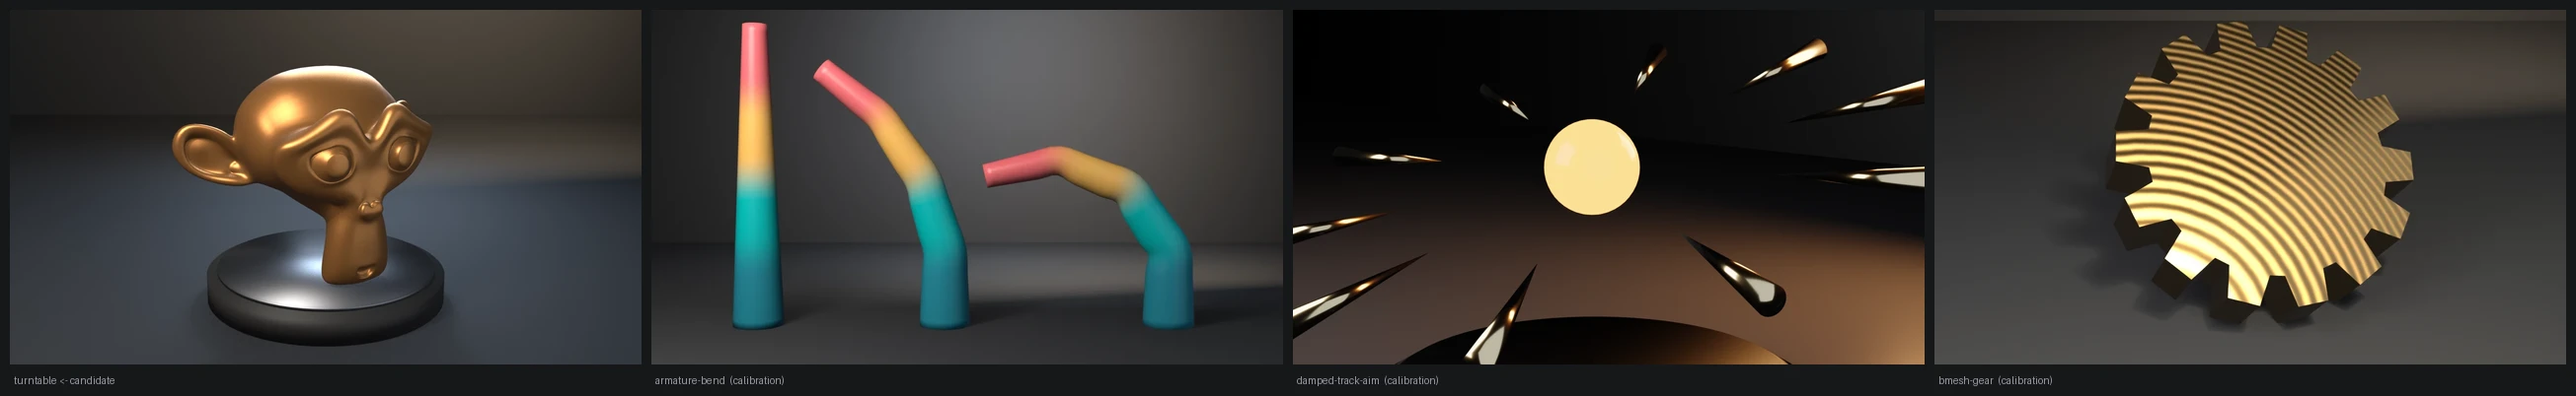
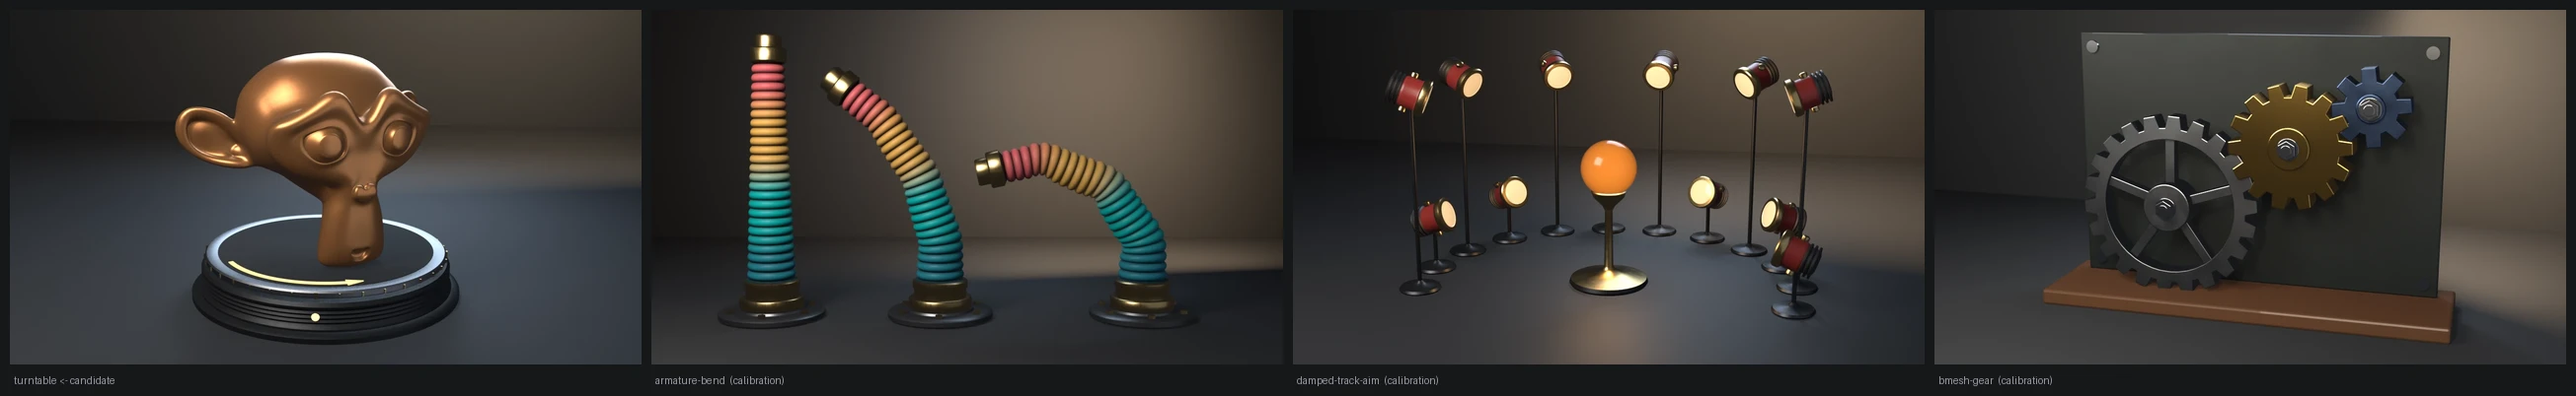
fix(examples): redesign turntable as a lathed display turntable with a frame-tick dial
The copper Suzanne sat on a plain two-disc plinth. The render-only staging is
now a display turntable: a stepped, vented motor housing with a front status
lamp, a steel platter with an inset rubber mat, one brass tick per keyed
frame on the platter rim (FRAMES ticks, 10 degrees apart, a longer one every
90) so the keyed 0..360 span reads as a dial, and an amber arc arrow on the
mat showing the direction of the keyed +Z turn. The steel is rougher than
the old platter, which blew out to white under the key. The render path now
runs the gallery_framing gate (exit 10, added to the README table). The
rotation keys, the sampled frames and the check are unchanged.

Evidence (live runs, local):
- .scratch/blender-5.2.1-windows-x64/blender.exe (Blender 5.2.1 LTS):
  check-only exit 0, branch=5.0+ ensure-helper rot_z 0.0 / 3.0518 / 6.2832
  drives=True. --no-keys exits 3 ("rotation keys do not drive playback").
- .scratch/blender-4.5.11-windows-x64/blender.exe (Blender 4.5.11 LTS):
  --output exits 0, branch=4.4/4.5 strip.channelbag with the same rot_z
  samples, framing_ok.
- Framing: fill y=0.822; margins l=0.263 r=0.287 b=0.056 t=0.122.
- Contact sheet: candidate luma 0.245 / stage 0.208 / warmth -0.029 /
  sat 0.208, against armature-bend 0.243/0.192/-0.144/0.237,
  damped-track-aim 0.237/0.218/+0.105/0.178 and bmesh-gear
  0.237/0.252/+0.092/0.153. Warmth is slightly negative from the cool floor
  under the housing; the warm wedge reads on the wall.

diff --git a/examples/turntable/turntable.py b/examples/turntable/turntable.py
@@ -20,6 +20,12 @@ era check is untouched.
     blender --background --python turntable.py -- --output t.png --engine cycles  # GPU-less
 """
 import bpy, sys, os, math, argparse
+from mathutils import Vector
+
+# Shared Layer 1 framing measurement (render path only) — see
+# gallery_framing.py for the __file__-relative import shim this relies on.
+sys.path.insert(0, os.path.join(os.path.dirname(os.path.abspath(__file__)), os.pardir))
+import gallery_framing  # noqa: E402
 
 FRAMES = 36
 
@@ -72,21 +78,92 @@ def correctness(obj):
     print(f"branch={branch} rot_z f1={r1} fmid={rmid} fend={rend} drives={drives}")
     return drives
 
-PLINTH_R = 1.15
-PLINTH_H = 0.28
-PLATTER_R = 1.05
-PLATTER_H = 0.05
+# Render-only display turntable, sized around the head (Suzanne spans ~2.7 x 1.7).
+BASE_R = 1.32          # motor housing radius at its widest
+BASE_H = 0.34          # housing top (platter bearing seat)
+PLATTER_R = 1.18
+PLATTER_Z0 = BASE_H + 0.02
+PLATTER_H = 0.07
+MAT_R = 1.06           # rubber mat inset into the platter
 SEAT = 0.01
+TICK_STEP_DEG = 360.0 / FRAMES   # one rim tick per keyed frame: the key span, made visible
+
+
+def _lathe(bm, profile, segs=96):
+    """Revolve an (r, z) profile about Z; r == 0 points become poles."""
+    rings = []
+    for r, z in profile:
+        if r < 1e-9:
+            rings.append([bm.verts.new((0.0, 0.0, z))])
+        else:
+            rings.append([bm.verts.new((r * math.cos(2 * math.pi * i / segs),
+                                        r * math.sin(2 * math.pi * i / segs), z))
+                          for i in range(segs)])
+    for a, b in zip(rings, rings[1:]):
+        for i in range(segs):
+            j = (i + 1) % segs
+            if len(a) == 1:
+                bm.faces.new((a[0], b[j], b[i]))
+            elif len(b) == 1:
+                bm.faces.new((a[i], a[j], b[0]))
+            else:
+                bm.faces.new((a[i], a[j], b[j], b[i]))
+
+
+def _material(name, base, rough, metal=0.0, emit=None, strength=0.0, noise=None):
+    mat = bpy.data.materials.new(name); mat.use_nodes = True
+    nt = mat.node_tree
+    pb = nt.nodes['Principled BSDF']
+    pb.inputs['Base Color'].default_value = (*base, 1.0)
+    pb.inputs['Metallic'].default_value = metal
+    pb.inputs['Roughness'].default_value = rough
+    if emit is not None:
+        pb.inputs['Emission Color'].default_value = (*emit, 1.0)
+        pb.inputs['Emission Strength'].default_value = strength
+    if noise:
+        # brushed / worn: noise-modulated roughness, never a flat slot
+        tex = nt.nodes.new('ShaderNodeTexNoise')
+        tex.inputs['Scale'].default_value = noise
+        tex.inputs['Detail'].default_value = 8.0
+        mr = nt.nodes.new('ShaderNodeMapRange')
+        mr.inputs['To Min'].default_value = rough - 0.08
+        mr.inputs['To Max'].default_value = rough + 0.12
+        nt.links.new(tex.outputs['Fac'], mr.inputs['Value'])
+        nt.links.new(mr.outputs['Result'], pb.inputs['Roughness'])
+    return mat
+
+
+def _mesh_object(name, build, mats, smooth_angle=35.0):
+    import bmesh
+    me = bpy.data.meshes.new(name)
+    bm = bmesh.new()
+    try:
+        build(bm)
+        bmesh.ops.recalc_face_normals(bm, faces=bm.faces)
+        bm.to_mesh(me)
+    finally:
+        bm.free()
+    for p in me.polygons:
+        p.use_smooth = True
+    me.set_sharp_from_angle(angle=math.radians(smooth_angle))
+    for m in mats:
+        me.materials.append(m)
+    ob = bpy.data.objects.new(name, me)
+    bpy.context.collection.objects.link(ob)
+    return ob
 
 
 def stage_turntable(obj):
-    """Render-only staging, after the check has run: a turntable to turn on.
+    """Render-only staging, after the check has run: a display turntable.
 
-    The head is smoothed by a subdivision modifier (the 500-face monkey read
-    as faceted plates), seated SEAT into a platter on a plinth, and lifted so
-    its lowest evaluated vertex lands there. It used to hover just above the
-    floor with nothing under it. Rotation keys and the correctness samples
-    are untouched; only location and a modifier change here.
+    A lathed motor housing (stepped foot, vented drum, front status lamp)
+    carries a steel platter with an inset rubber mat. Its rim carries one tick
+    per keyed frame (FRAMES ticks, 10 degrees apart, a longer tick every 90),
+    so the keyed 0..360 span over frames 1..FRAMES reads as a dial, and an
+    amber arc arrow on the mat sweeps the direction of the keyed turn. The
+    head is smoothed by a subdivision modifier and seated SEAT into the mat.
+    Rotation keys and the correctness samples are untouched; only location
+    and a modifier change on the checked object.
     """
     import bmesh
     sub = obj.modifiers.new("Smooth", 'SUBSURF')
@@ -99,45 +176,99 @@ def stage_turntable(obj):
         zmin = min((ev.matrix_world @ v.co).z for v in me.vertices)
     finally:
         ev.to_mesh_clear()
-    obj.location.z += (PLINTH_H + PLATTER_H - SEAT) - zmin
+    top = PLATTER_Z0 + PLATTER_H
+    obj.location.z += (top - SEAT) - zmin
     b = obj.active_material.node_tree.nodes['Principled BSDF']
     # 0.25 blew every brow and ear edge out to white under the key
-    b.inputs['Roughness'].default_value = 0.38
-    parts = []
-    for nm, r, z0, h, col, metal, rough in (
-        ("Plinth", PLINTH_R, 0.0, PLINTH_H, (0.035, 0.032, 0.03), 0.0, 0.55),
-        ("Platter", PLATTER_R, PLINTH_H - 0.004, PLATTER_H + 0.004,
-         (0.42, 0.42, 0.44), 1.0, 0.45),
-    ):
-        mesh = bpy.data.meshes.new(nm)
-        bm = bmesh.new()
-        try:
-            bmesh.ops.create_cone(bm, cap_ends=True, segments=64, radius1=r,
-                                  radius2=r, depth=h)
-            bmesh.ops.translate(bm, vec=(0.0, 0.0, z0 + h / 2.0), verts=bm.verts)
-            bmesh.ops.bevel(bm, geom=[e for e in bm.edges if len(e.link_faces) == 2
-                                      and e.calc_face_angle(0.0) > 1.0],
-                            offset=0.012, segments=2, affect='EDGES')
-            bm.to_mesh(mesh)
-        finally:
-            bm.free()
-        mesh.shade_smooth()
-        mat = bpy.data.materials.new(nm); mat.use_nodes = True
-        pb = mat.node_tree.nodes['Principled BSDF']
-        pb.inputs['Base Color'].default_value = (*col, 1.0)
-        pb.inputs['Metallic'].default_value = metal
-        pb.inputs['Roughness'].default_value = rough
-        mesh.materials.append(mat)
-        ob = bpy.data.objects.new(nm, mesh)
-        bpy.context.collection.objects.link(ob)
-        parts.append(ob)
-    return parts
+    b.inputs['Roughness'].default_value = 0.34
+    b.inputs['Base Color'].default_value = (0.80, 0.33, 0.12, 1.0)
+
+    housing = _material("Housing", (0.028, 0.030, 0.034), 0.42, metal=0.6, noise=40.0)
+    steel = _material("Steel", (0.34, 0.34, 0.36), 0.40, metal=1.0, noise=90.0)
+    rubber = _material("Rubber", (0.012, 0.012, 0.013), 0.78)
+    brass = _material("Brass", (0.80, 0.56, 0.24), 0.26, metal=1.0, noise=60.0)
+    lamp = _material("Lamp", (0.1, 0.03, 0.0), 0.3, emit=(1.0, 0.45, 0.10), strength=6.0)
+    arrow = _material("Arrow", (0.9, 0.45, 0.1), 0.4, emit=(1.0, 0.50, 0.14), strength=2.2)
+
+    def build_housing(bm):
+        _lathe(bm, [(0.0, 0.0), (BASE_R, 0.0), (BASE_R, 0.05), (BASE_R - 0.03, 0.07),
+                    (BASE_R - 0.08, 0.08), (BASE_R - 0.08, 0.10),
+                    # vented drum: shallow grooves around the waist
+                    *[(BASE_R - 0.10 - (0.012 if k % 2 else 0.0), 0.12 + 0.02 * k)
+                      for k in range(9)],
+                    (BASE_R - 0.10, 0.30), (BASE_R - 0.13, 0.33), (0.62, BASE_H),
+                    (0.60, BASE_H + 0.02), (0.0, BASE_H + 0.02)])
+    housing_ob = _mesh_object("Housing", build_housing, [housing])
+
+    def build_platter(bm):
+        z0, z1 = PLATTER_Z0, PLATTER_Z0 + PLATTER_H
+        _lathe(bm, [(0.0, z0), (PLATTER_R - 0.02, z0), (PLATTER_R, z0 + 0.015),
+                    (PLATTER_R, z1 - 0.015), (PLATTER_R - 0.015, z1),
+                    (MAT_R + 0.01, z1), (MAT_R, z1 - 0.006), (0.0, z1 - 0.006)])
+    platter_ob = _mesh_object("Platter", build_platter, [steel])
+
+    def build_mat(bm):
+        _lathe(bm, [(0.0, top - 0.006), (MAT_R - 0.004, top - 0.006),
+                    (MAT_R - 0.004, top), (0.0, top)], segs=96)
+    mat_ob = _mesh_object("Mat", build_mat, [rubber])
+
+    def build_ticks(bm):
+        for k in range(FRAMES):
+            a = math.radians(k * TICK_STEP_DEG)
+            major = k % (FRAMES // 4) == 0
+            h = 0.058 if major else 0.036
+            res = bmesh.ops.create_cube(bm, size=1.0)
+            for v in res['verts']:
+                v.co.x *= 0.016
+                v.co.y *= 0.026 if major else 0.013
+                v.co.z *= h
+                v.co.x += PLATTER_R + 0.006
+                v.co.z += PLATTER_Z0 + PLATTER_H / 2.0
+                x, y = v.co.x, v.co.y
+                v.co.x = x * math.cos(a) - y * math.sin(a)
+                v.co.y = x * math.sin(a) + y * math.cos(a)
+    ticks_ob = _mesh_object("Ticks", build_ticks, [brass], smooth_angle=10.0)
+
+    def build_arrow(bm):
+        # a quarter-turn arc on the mat edge, counter-clockwise (+Z rotation),
+        # ending in a flat arrowhead: the keyed direction of travel
+        r, w, z = MAT_R - 0.07, 0.022, top + 0.002
+        a0, a1, n = math.radians(-150), math.radians(-75), 24
+        prev = None
+        for i in range(n + 1):
+            a = a0 + (a1 - a0) * i / n
+            ring = [bm.verts.new(((r + s * w) * math.cos(a), (r + s * w) * math.sin(a), z + dz))
+                    for s, dz in ((-1, 0.0), (1, 0.0), (1, 0.008), (-1, 0.008))]
+            if prev:
+                for k in range(4):
+                    bm.faces.new((prev[k], prev[(k + 1) % 4], ring[(k + 1) % 4], ring[k]))
+            prev = ring
+        tip = a1 + math.radians(9)
+        head = [bm.verts.new(((r + s) * math.cos(a1), (r + s) * math.sin(a1), z + dz))
+                for s, dz in ((-0.06, 0.0), (0.06, 0.0), (0.06, 0.008), (-0.06, 0.008))]
+        pt = [bm.verts.new((r * math.cos(tip), r * math.sin(tip), z)),
+              bm.verts.new((r * math.cos(tip), r * math.sin(tip), z + 0.008))]
+        bm.faces.new((head[0], head[1], pt[0]))
+        bm.faces.new((head[3], pt[1], head[2]))
+        bm.faces.new((head[1], head[2], pt[1], pt[0]))
+        bm.faces.new((head[0], pt[0], pt[1], head[3]))
+        bm.faces.new((head[0], head[3], head[2], head[1]))
+    arrow_ob = _mesh_object("Arrow", build_arrow, [arrow], smooth_angle=10.0)
+
+    def build_lamp(bm):
+        # a status lamp on the housing front, facing the camera (-Y)
+        res = bmesh.ops.create_uvsphere(bm, u_segments=16, v_segments=10, radius=0.035)
+        for v in res['verts']:
+            v.co.y *= 0.6
+            v.co += Vector((0.0, -(BASE_R - 0.105), 0.21))
+    lamp_ob = _mesh_object("Lamp", build_lamp, [lamp])
+    return [housing_ob, platter_ob, mat_ob, ticks_ob, arrow_ob, lamp_ob]
 
 
 def render_still(obj, path, engine):
     import bmesh
     sc = bpy.context.scene
-    stage_turntable(obj)
+    parts = stage_turntable(obj)
     fme = bpy.data.meshes.new("Floor"); bm = bmesh.new()
     try:
         bmesh.ops.create_grid(bm, x_segments=1, y_segments=1, size=30.0); bm.to_mesh(fme)
@@ -155,8 +286,8 @@ def render_still(obj, path, engine):
     wall.rotation_euler = (math.radians(90), 0, 0); bpy.context.collection.objects.link(wall)
     w = bpy.data.worlds.new("W"); w.use_nodes = True
     w.node_tree.nodes["Background"].inputs[0].default_value = (0.02, 0.021, 0.025, 1); sc.world = w
-    aim = bpy.data.objects.new("Aim", None); aim.location = (0, 0, 1.1); bpy.context.collection.objects.link(aim)
-    cam = bpy.data.objects.new("cam", bpy.data.cameras.new("cam")); cam.location = (0, -8.0, 3.4)
+    aim = bpy.data.objects.new("Aim", None); aim.location = (0, 0, 1.05); bpy.context.collection.objects.link(aim)
+    cam = bpy.data.objects.new("cam", bpy.data.cameras.new("cam")); cam.location = (0.6, -8.2, 3.2)
     bpy.context.collection.objects.link(cam); sc.camera = cam
     c = cam.constraints.new('TRACK_TO'); c.target = aim; c.track_axis = 'TRACK_NEGATIVE_Z'; c.up_axis = 'UP_Y'
     for nm, loc, en, size, col in [("K", (-4, -5, 7), 620, 5.0, (1.0, 0.96, 0.9)),
@@ -170,10 +301,10 @@ def render_still(obj, path, engine):
     wo.rotation_euler = (math.radians(-68), 0, math.radians(190)); bpy.context.collection.objects.link(wo)
     sc.render.engine = 'CYCLES' if engine == 'cycles' else get_eevee_engine_id()
     if sc.render.engine == 'CYCLES':
-        try: sc.cycles.samples = 16
+        try: sc.cycles.samples = 48
         except Exception: pass
     else:
-        try: sc.eevee.taa_render_samples = 16
+        try: sc.eevee.taa_render_samples = 64
         except Exception: pass
     # pin the still to a deliberate pose: frame 4 is ~31 degrees of turn, a
     # three-quarter view where ears and brow read instantly as Suzanne. An
@@ -186,8 +317,14 @@ def render_still(obj, path, engine):
     sc.render.image_settings.file_format = 'PNG'; sc.render.filepath = path
     # AgX would wash the copper toward beige (docs/VISUAL-STYLE.md)
     sc.view_settings.view_transform = 'Standard'
+    bpy.context.view_layer.update()
+    # Layer 1 framing gate before the beauty render (exit 10 on violation)
+    fcode = gallery_framing.check_framing(sc, cam, hero=[obj] + parts,
+                                          elements=[obj] + parts, stage=[floor, wall])
+    if fcode:
+        return fcode
     bpy.ops.render.render(write_still=True)
-    return os.path.exists(path) and os.path.getsize(path) > 0
+    return 0 if os.path.exists(path) and os.path.getsize(path) > 0 else 4
 
 def main():
     argv = sys.argv[sys.argv.index("--") + 1:] if "--" in sys.argv else []
@@ -214,8 +351,11 @@ def main():
         print("ERROR: rotation keys do not drive playback", file=sys.stderr); return 3
 
     if args.output:
-        if not render_still(obj, args.output, args.engine):
-            print("ERROR: still render produced no file", file=sys.stderr); return 4
+        rcode = render_still(obj, args.output, args.engine)
+        if rcode:
+            if rcode == 4:
+                print("ERROR: still render produced no file", file=sys.stderr)
+            return rcode
         print(f"rendered still {args.output} ({os.path.getsize(args.output)} bytes)")
     print("turntable OK")
     return 0

diff --git a/examples/turntable/README.md b/examples/turntable/README.md
@@ -31,12 +31,15 @@ a showcase extra, not part of the CI check.
 
 The still's staging is render-only and runs after the check. The head gets a
 subdivision modifier (the 500-face monkey read as faceted plates) and is
-seated 10 mm into the platter of a turntable plinth, lifted from its own
-lowest evaluated vertex. It used to hover just above the floor with nothing
-under it. The rotation keys, the sampled frames and every exit code are
-unchanged. This render path does not call `gallery_framing.check_framing`,
-because adding it would add exit code 10. The framing was measured with the
-helper out of band instead: fill y 0.789, minimum margin 0.050, ok.
+seated 10 mm into the rubber mat of a display turntable, lifted from its own
+lowest evaluated vertex. The turntable is lathed: a stepped, vented motor
+housing with a front status lamp, and a steel platter whose rim carries one
+brass tick per keyed frame — `FRAMES` ticks, 10° apart, a longer one every
+90° — so the keyed 0→360° span over frames 1→`FRAMES` reads as a dial. An
+amber arc arrow on the mat sweeps the direction of the keyed +Z turn. The
+rotation keys and the sampled frames are unchanged. The render path gates
+framing through `examples/gallery_framing.py` before writing the still
+(exit 10 on violation; smoke never passes `--output`).
 
 ## Exit codes
 
@@ -51,6 +54,7 @@ against it.
 | 3 | Rotation keys do not drive playback (`--no-keys` lands here) |
 | 4 | `--output` produced no file |
 | 5 | Wrong-era EEVEE engine id was accepted |
+| 10 | Framing gate violation on the `--output` path (`gallery_framing`) |
 
 The `blender-smoke` workflow runs the check on Blender 5.2 LTS and 4.5 LTS
 (5.1 on the weekly cron, the `needs-5.1` PR label, or manual dispatch).

diff --git a/README.md b/README.md
@@ -677,7 +677,7 @@ fails creating the 5.x RNA.
 <table>
 <tr>
 <td width="46%" valign="middle">
-<a href="examples/turntable/"><img src="examples/turntable/preview.webp" alt="Turntable: a copper Suzanne mid-rotation on a dark studio floor, rendered with EEVEE" /></a>
+<a href="examples/turntable/"><img src="examples/turntable/preview.webp" alt="Turntable: a copper Suzanne on a lathed display turntable with a vented motor base, a platter rim ticked once per keyed frame, and an amber arrow showing the keyed turn" /></a>
 </td>
 <td valign="middle">
 
